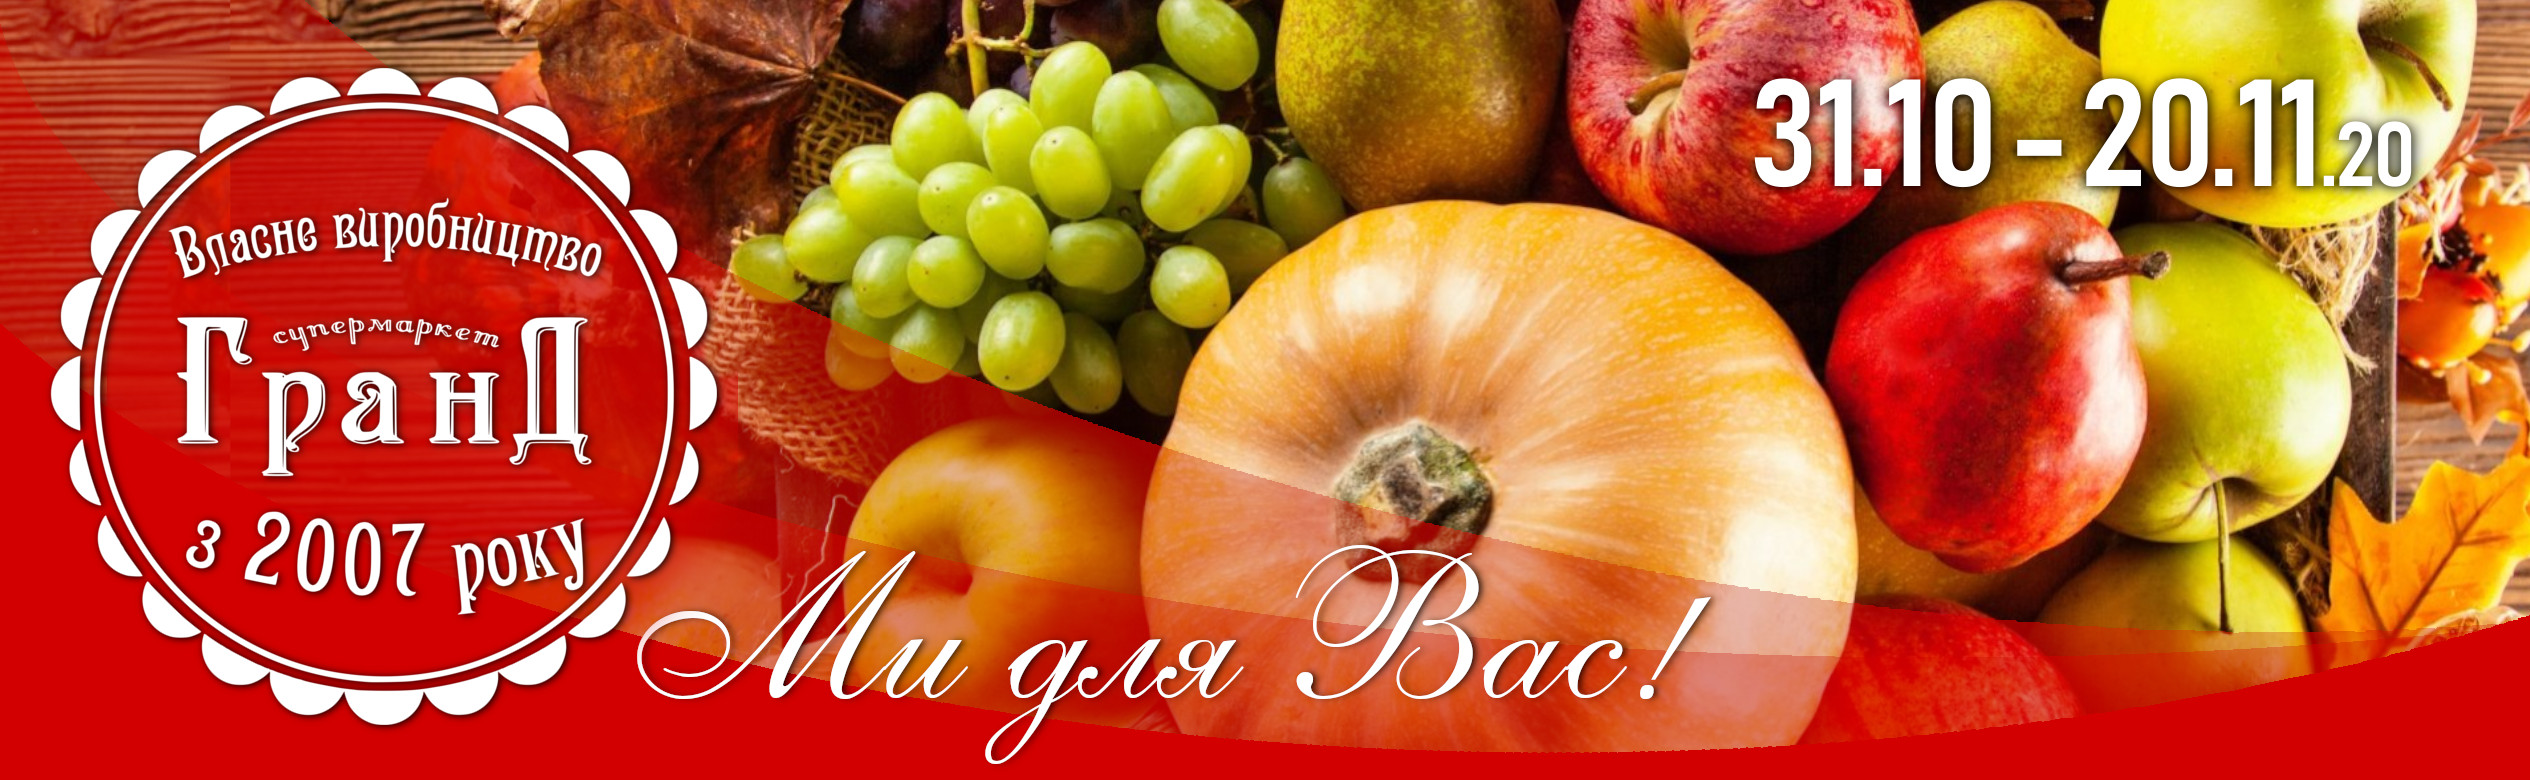
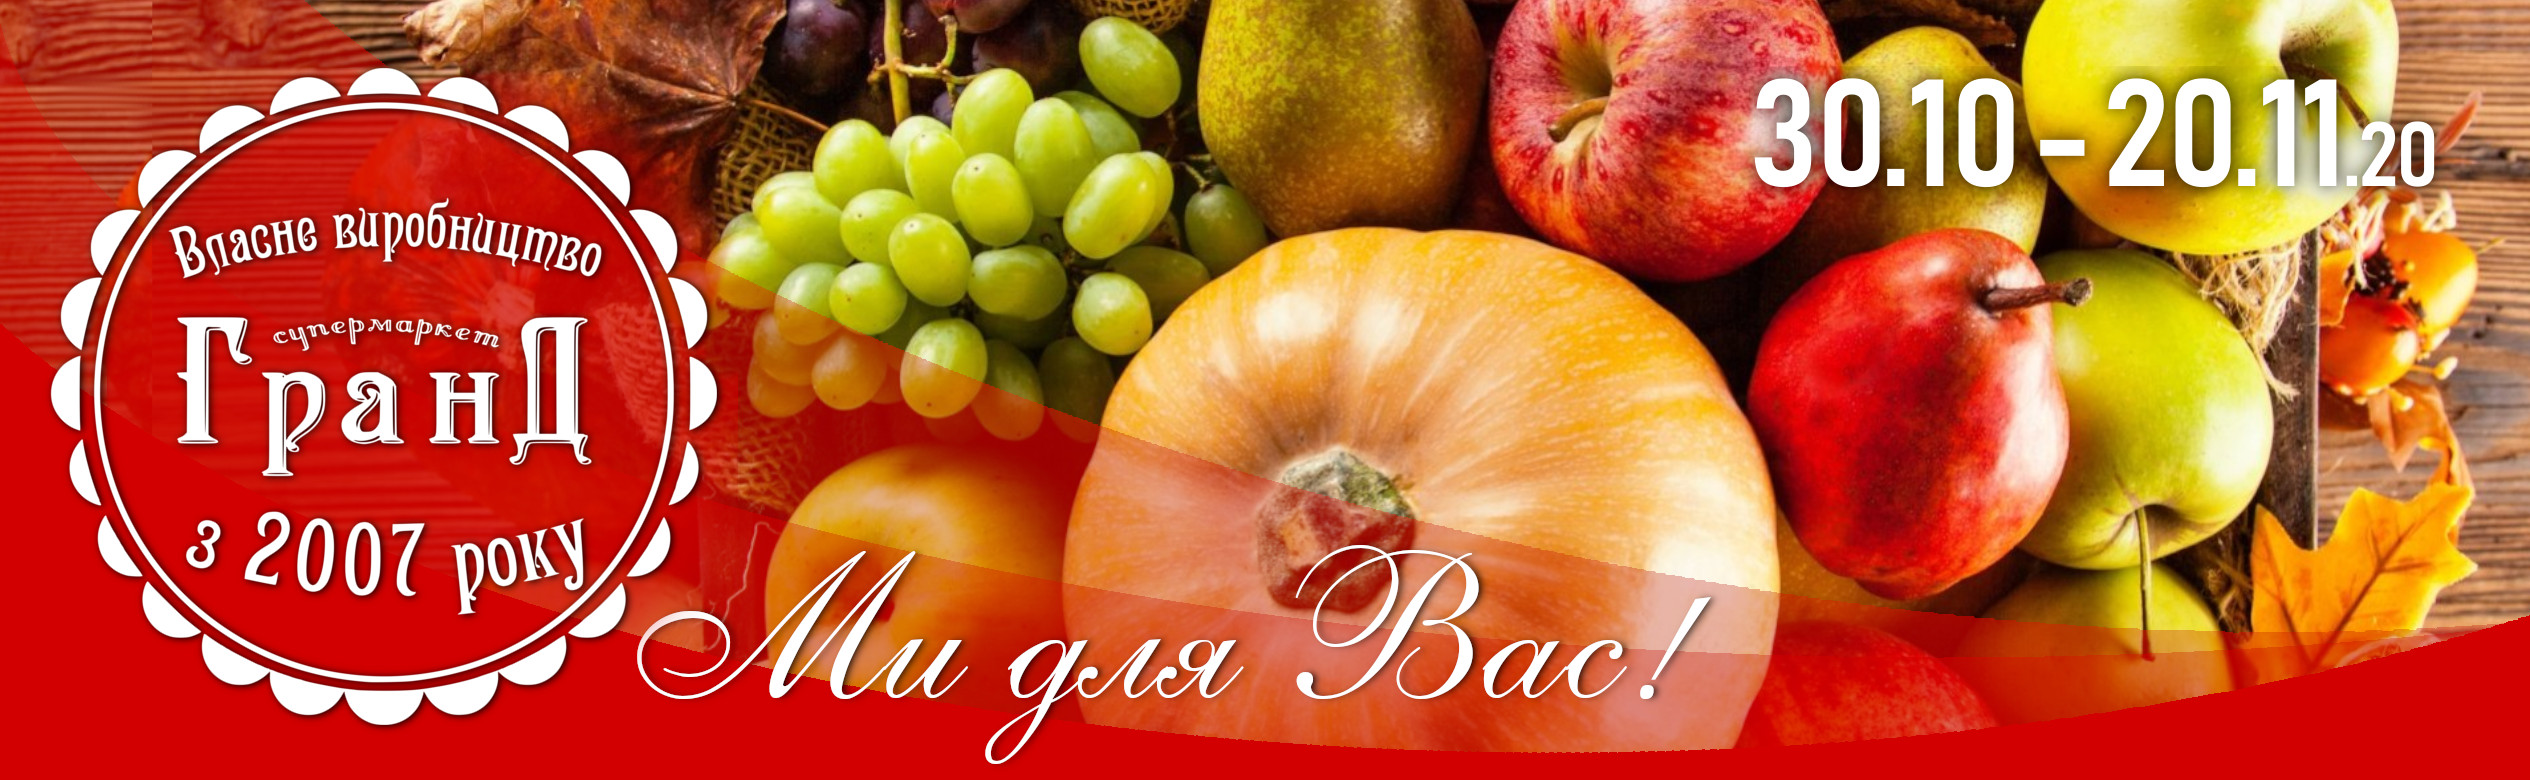
new buck-2

diff --git a/grand/buklet/base1.js b/grand/buklet/base1.js
@@ -1,4 +1,4 @@
-let dataVid = '31.10'
+let dataVid = '30.10'
 let dataDo = '20.11';
 let base = [
     //  {size:"rozd", pic:"0", desc: ` `, disc: " " priceO: " ", priceN: " "},  
@@ -25,34 +25,36 @@ let base = [
     {pic:"14", desc:`Крило куряче охолоджене$100г`, disc:'20%',	priceO:'5990',	priceN:'480'},
 
     {pic:"8", desc:`Філе стегна курчат бройлерів охолоджене$100г`, disc:'25%',	priceO:'9390',	priceN:'690'},
-    {pic:"22", desc:`Гомілка індича охолоджена$100г`, disc:'20%',	priceO:'5990',	priceN:'480'},
 
+
+    // {pic:"22", desc:`Гомілка індича охолоджена$100г`, disc:'20%',	priceO:'5990',	priceN:'480'},
     {size:"rozd", pic:"0", desc: ` `, disc: " ", priceO: " ", priceN: " "},
 
     {pic:"10", desc:`Диня Пекучка`, disc:'XIT',	priceO:'',	priceN:''},
     {pic:"11", desc:`Груша домашня`, disc:'XIT',	priceO:'',	priceN:''},
     {pic:"18", desc:`Яблука`, disc:'XIT',	priceO:'',	priceN:''},
-    {pic:"2", desc:`Квасоля "Всесвіт" в соусі$500г`, disc:'20%',	priceO:'1950',	priceN:'1550'},
-
+    {pic:"40", desc:`Хурма`, disc:'XIT',	priceO:'',	priceN:''},
+    
     {pic:"23", desc:`Кефір "Біла Лінія" 2.5%$840г`, disc:'25%',	priceO:'2790',	priceN:'2190'},
     {pic:"13", desc:`Йогурт "Фанні"$в асортименті$400мл`, disc:'25%',	priceO:'1490',	priceN:'1090'},
     {pic:"35", desc:`Масло "Добрі товари" 73%$100г`, disc:'20%',	priceO:'1100',	priceN:'880'},
     {pic:"24", desc:`Сирний продукт "Руський" TM"Тульчин"$170г`, disc:'20%',	priceO:'3300',	priceN:'2690'},
-
+    
     {pic:"4", desc:`Ковбаса "Рубана" TM"Світ мяса"$100г`, disc:'25%',	priceO:'1290',	priceN:'990'},
     {pic:"5", desc:`Ковбаса "Студенська"варена TM"Добрі товари"$100г`, disc:'30%',	priceO:'690',	priceN:'490'},
     {pic:"6", desc:`Сосиски "Філейні" ТМ"Бащинський"$100г`, disc:'30%',	priceO:'1250',	priceN:'900'},
     {pic:"20", desc:`Сосиски "Ход дог" TM"Світ мяса"$100г`, disc:'30%',	priceO:'770',	priceN:'549'},
-
-    {pic:"19", desc:`Хек тушка 300-500 свіжеморожений$100г`, disc:'35%',	priceO:'899',	priceN:'599'},
+    
+    {pic:"19", desc:`Хек тушка "СвіжОморожений"$100г`, disc:'35%',	priceO:'899',	priceN:'599'},
     {pic:"25", desc:`Рибні палички ТМ"Вічі"$100г`, disc:'20%',	priceO:'869',	priceN:'699'},
     {pic:"1", desc:`Hапій "Швепс"$в асортименті$1л`, disc:'20%',	priceO:'2100',	priceN:'1690'},
     {pic:"36", desc:`Мін.вода "Шаянська" Заповітна$1,5л`, disc:'25%',	priceO:'1250',	priceN:'950'},
-
-    {pic:"26", desc:`Цукерки  "Відмежатко" з горіхом ТМ"Конті"$100г`, disc:'35%',	priceO:'890',	priceN:'590'},
+    
+    {pic:"26", desc:`Цукерки  "Ведмежатко" з горіхом ТМ"Конті"$100г`, disc:'35%',	priceO:'890',	priceN:'590'},
     {pic:"27", desc:`Батончик "Конті" Брауні$в асортименті$35г`, disc:'35%',	priceO:'850',	priceN:'550'},
-    {pic:"3", desc:`Шоколад "Рошен"$нач.з печивом,вафлею$115г`, disc:'25%',	priceO:'2300',	priceN:'1750'},    
-    {pic:"0", desc:`Шоколадний десерт "Чоколада"$екстаза горіх$400г`, disc:'20%',	priceO:'3500',	priceN:'2800'},
-
+    {pic:"3", desc:`Шоколад "Рошен"$нач. з печивом/вафлею$115г`, disc:'25%',	priceO:'2300',	priceN:'1750'},    
+    {pic:"39", desc:`Шоколадний десерт "Чоколада"$екстаза горіх$400г`, disc:'20%',	priceO:'3500',	priceN:'2800'},
+    
     {pic:"0", desc:`Макарони "Прополіс"$в асортимент$500г`, disc:'20%',	priceO:'1700',	priceN:'1350'},
+    {pic:"2", desc:`Квасоля "Всесвіт" в соусі$500г`, disc:'20%',	priceO:'1950',	priceN:'1550'},
 ]

diff --git a/grand/buklet/script-p.js b/grand/buklet/script-p.js
@@ -16,7 +16,7 @@ for (let index = 0; index < base.length; index++) {
         classSPO = 'spo';
     }
     inner += `
-    <div class="item size${base[index].size}">
+    <div class="item ${base[index].size}">
         <div class="item__pic">
             <img src="image/${base[index].pic}.jpg" alt="">
             </div>` +
